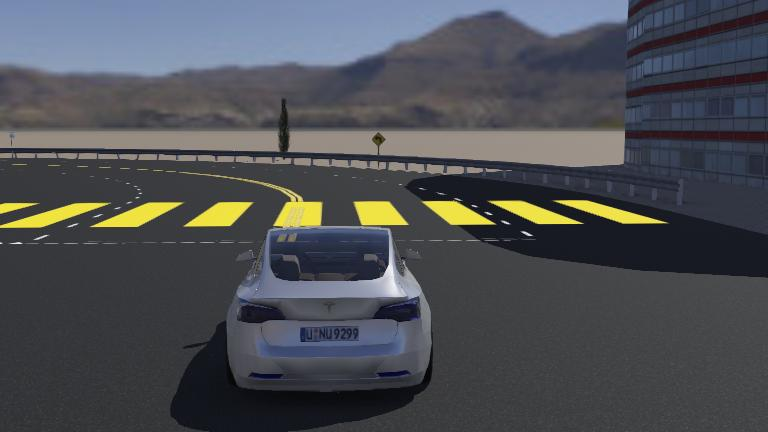
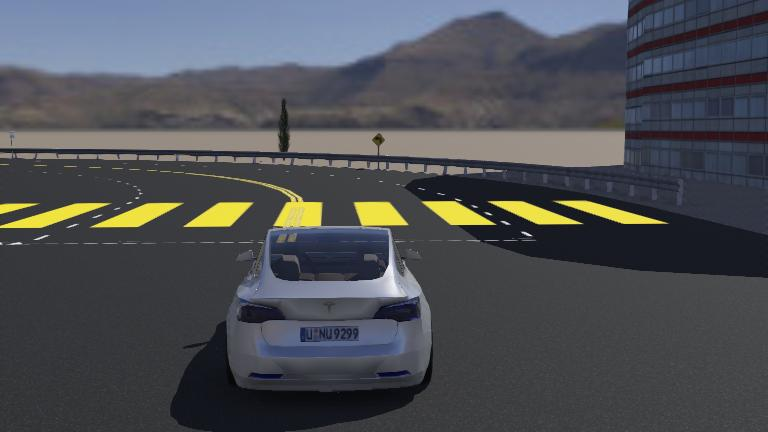
Added Define_Sensors.py, added publishing Car_Odom_GT topic

diff --git a/Webots_Worlds_Controller/controllers/CSEN934_Test_OL_Sensors/CSEN934_Test_OL_Sensors.py b/Webots_Worlds_Controller/controllers/CSEN934_Test_OL_Sensors/CSEN934_Test_OL_Sensors.py
@@ -1,6 +1,11 @@
 import rclpy
 from ackermann_msgs.msg import AckermannDrive
+from nav_msgs.msg import Odometry
 from vehicle import Driver
+
+# Import from local helper files
+from Helping_Functions import euler_to_quaternion
+from Define_Sensors import init_sensors
 
 # 1. Initialize Webots Driver directly
 driver = Driver()
@@ -8,21 +13,21 @@ timestep = int(driver.getBasicTimeStep())
 
 # 2. Initialize ROS 2 Node
 rclpy.init(args=None)
-node = rclpy.create_node('Tesla_Node') # Node named exactly as required
+node = rclpy.create_node('Tesla_Node')
 
-# 3. Enable Webots Sensors
-camera = driver.getDevice('front_camera')
-if camera:
-    camera.enable(timestep)
+# 3. Enable Webots Sensors using Define_Sensors.py
+sensors = init_sensors(driver, timestep)
+gps = sensors['gps']
+imu = sensors['imu']
+gyro = sensors['gyro']
 
 # 4. Command Callback
 def cmd_callback(msg):
-    # Convert ROS m/s to Webots km/h
     target_speed_kmh = msg.speed * 3.6
     driver.setCruisingSpeed(target_speed_kmh)
     driver.setSteeringAngle(msg.steering_angle)
 
-# 5. Subscribe to ROS topic
+# 5. Subscribers and Publishers
 sub = node.create_subscription(
     AckermannDrive, 
     '/Car_Ackrm', 
@@ -30,7 +35,46 @@ sub = node.create_subscription(
     10
 )
 
+odom_pub = node.create_publisher(
+    Odometry, 
+    '/Car_Odom_GT', 
+    10
+)
+
 # 6. The Main Webots Execution Loop
 while driver.step() != -1:
-    # Process ROS callbacks to receive driving commands
     rclpy.spin_once(node, timeout_sec=0)
+    
+    if gps and imu and gyro:
+        odom_msg = Odometry()
+        odom_msg.header.stamp = node.get_clock().now().to_msg()
+        odom_msg.header.frame_id = 'odom'
+        odom_msg.child_frame_id = 'base_link'
+        
+        # Position
+        position = gps.getValues()
+        odom_msg.pose.pose.position.x = position[0]
+        odom_msg.pose.pose.position.y = position[1]
+        odom_msg.pose.pose.position.z = position[2]
+        
+        # Orientation using the imported helper function
+        roll, pitch, yaw = imu.getRollPitchYaw()
+        qx, qy, qz, qw = euler_to_quaternion(roll, pitch, yaw)
+        odom_msg.pose.pose.orientation.x = qx
+        odom_msg.pose.pose.orientation.y = qy
+        odom_msg.pose.pose.orientation.z = qz
+        odom_msg.pose.pose.orientation.w = qw
+        
+        # Linear Velocity
+        linear_vel = gps.getSpeedVector()
+        odom_msg.twist.twist.linear.x = linear_vel[0]
+        odom_msg.twist.twist.linear.y = linear_vel[1]
+        odom_msg.twist.twist.linear.z = linear_vel[2]
+        
+        # Angular Velocity
+        angular_vel = gyro.getValues()
+        odom_msg.twist.twist.angular.x = angular_vel[0]
+        odom_msg.twist.twist.angular.y = angular_vel[1]
+        odom_msg.twist.twist.angular.z = angular_vel[2]
+        
+        odom_pub.publish(odom_msg)

diff --git a/Webots_Worlds_Controller/controllers/CSEN934_Test_OL_Sensors/Helping_Functions.py b/Webots_Worlds_Controller/controllers/CSEN934_Test_OL_Sensors/Helping_Functions.py
@@ -1,0 +1,11 @@
+import math
+
+def euler_to_quaternion(roll, pitch, yaw):
+    """
+    Converts Euler angles to quaternion.
+    """
+    qx = math.sin(roll/2) * math.cos(pitch/2) * math.cos(yaw/2) - math.cos(roll/2) * math.sin(pitch/2) * math.sin(yaw/2)
+    qy = math.cos(roll/2) * math.sin(pitch/2) * math.cos(yaw/2) + math.sin(roll/2) * math.cos(pitch/2) * math.sin(yaw/2)
+    qz = math.cos(roll/2) * math.cos(pitch/2) * math.sin(yaw/2) - math.sin(roll/2) * math.sin(pitch/2) * math.cos(yaw/2)
+    qw = math.cos(roll/2) * math.cos(pitch/2) * math.cos(yaw/2) + math.sin(roll/2) * math.sin(pitch/2) * math.sin(yaw/2)
+    return [qx, qy, qz, qw]

diff --git a/Webots_Worlds_Controller/controllers/CSEN934_Test_OL_Sensors/Define_Sensors.py b/Webots_Worlds_Controller/controllers/CSEN934_Test_OL_Sensors/Define_Sensors.py
@@ -1,0 +1,27 @@
+def init_sensors(driver, timestep):
+    """
+    Initializes and enables all required Webots sensors.
+    Returns a dictionary containing the sensor objects.
+    """
+    camera = driver.getDevice('front_camera')
+    if camera:
+        camera.enable(timestep)
+
+    gps = driver.getDevice('gps')
+    if gps:
+        gps.enable(timestep)
+
+    imu = driver.getDevice('imu')
+    if imu:
+        imu.enable(timestep)
+
+    gyro = driver.getDevice('gyro')
+    if gyro:
+        gyro.enable(timestep)
+
+    return {
+        'camera': camera,
+        'gps': gps,
+        'imu': imu,
+        'gyro': gyro
+    }
